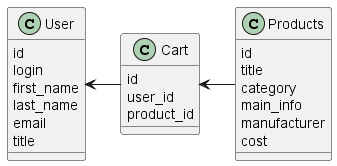
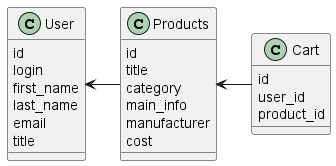
Correction of remarks

diff --git a/components.md b/components.md
@@ -23,13 +23,11 @@ System_Boundary(conference_site, "Сайт магазина") {
    Container(products_service, "Сервис товаров", "C++", "Сервис управления товарами", $tags = "microService") 
    Container(cart_service, "Сервис корзины", "C++", "Сервис управления корзиной", $tags = "microService")   
    ContainerDb(db, "База данных", "MySQL", "Хранение данных о пользователях, товарах и корзин пользователей", $tags = "storage")
-   Container(product, "Товар")
-   Container(cart, "Корзина")
+
 }
 
 Rel(user, web_site, "Регистрация, просмотр информации о товарах, добаваление товара в корзину, просмотр корзины")
-Rel(product, web_site, "Добавление нового товара, редактироване и отображение информации о товаре")
-Rel(cart, web_site, "Заполнение корзины, просмотр содержимого")
+
 
 
 
@@ -111,8 +109,8 @@ class Cart {
   product_id
 }
 
-User <- Cart
-Cart <- Products
+User <- Products
+Products <- Cart
 
 @enduml
 ```

diff --git a/context.md b/context.md
@@ -6,17 +6,12 @@
 !include https://raw.githubusercontent.com/plantuml-stdlib/C4-PlantUML/master/C4_Container.puml
 
 Person(user, "Пользователь")
-Person(product, "Товар")
-Person(cart, "Корзина")
-
 
 System(conference_site, "Сайт магазина", "Веб-сайт магазина для продажи товаров")
 
 
 
 Rel(user, conference_site, "Регистрация, просмотр/изменение информации о блогах и публикациях")
-Rel(product, web_site, "Добавление нового товара, редактироване и отображение информации о товаре")
-Rel(cart, web_site, "Заполнение корзины, просмотр содержимого")
 
 
 
